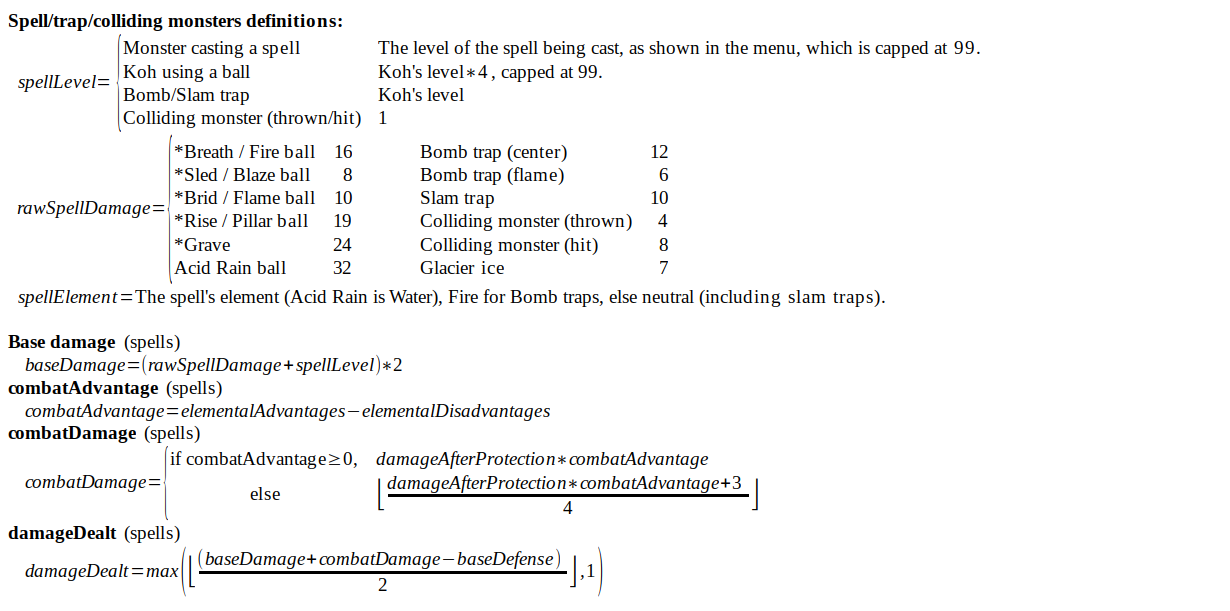
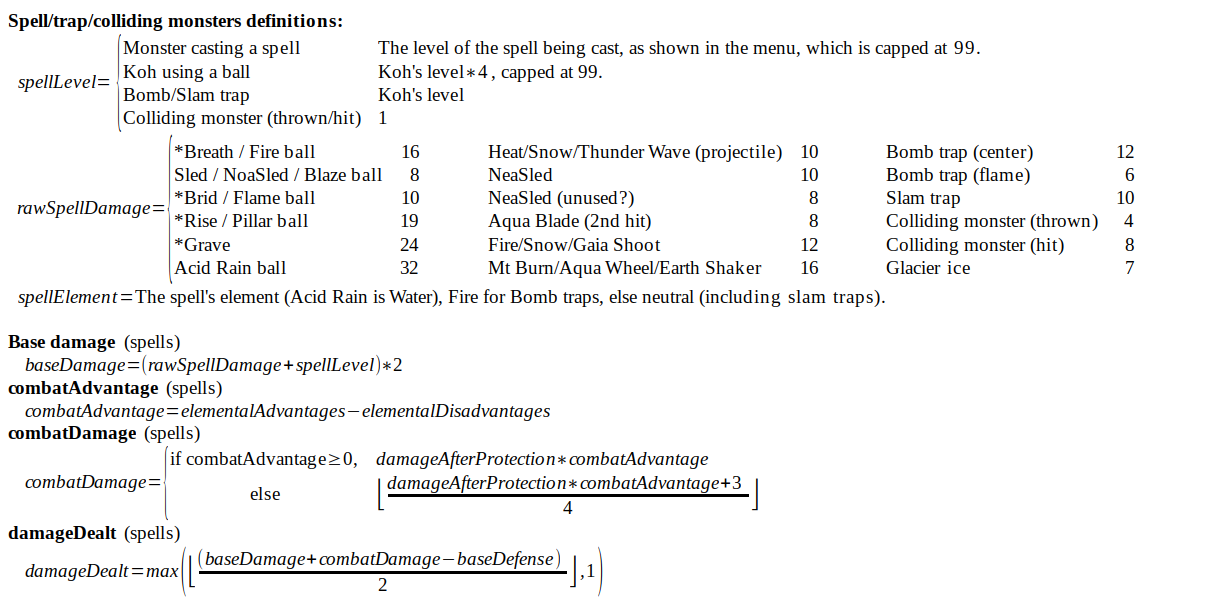
v3.7.0-preview1 Added custom spawns, improved animation swap, added mix magic to damage calculation.

diff --git a/customSpawns/index.js b/customSpawns/index.js
@@ -1,0 +1,190 @@
+(function(window) {
+
+  let constants;
+  let monsters;
+  let floors;
+
+  if (self) {
+    constants = self.adRando.constants;
+    monsters = self.adRando.monsters;
+    floors = self.adRando.floors;
+  } else {
+    constants = require('../constants');
+    monsters = require('../monsters');
+    floors = require('../guide/tables/floors');
+  }
+
+  const monsterSlotsPerFloor = 16;
+  const maxMonsterId = 0x2d;
+  const maxFloor = 39;
+
+  let copy;
+  
+  const elems = {};
+
+  let pageIsSetUp = false;
+
+
+  function getFloorSpawnsByNumber(floorArray, floorNumber) {
+    if (floorArray[floorNumber - 1] && floorArray[floorNumber - 1].floor == floorNumber) {
+      return floorArray[floorNumber - 1];
+    }
+    return floorArray.filter(floorEntry => floorEntry.floor == floorNumber)[0];
+  }
+
+  function tryParsingJson(data) {
+    try {
+      const floorSpawns = JSON.parse(data);
+      const floorContainers = document.getElementsByName('floor-container');
+      for (let i = 0; i < floorContainers.length; i++) {
+        setFloorNodeByObject(floorContainers[i], getFloorSpawnsByNumber(floorSpawns.monsters, i + 1));
+      }
+    } catch (error) {
+      logToOutput(error.message);
+    }
+  }
+
+  function importFileHandler(event) {
+    if (elems.importFile.files[0]) {
+      const reader = new FileReader();
+      reader.onload = function() {
+        tryParsingJson(this.result);
+      }
+      reader.readAsText(elems.importFile.files[0]);
+    }
+    event.preventDefault();
+    event.stopPropagation();
+  }
+
+  function exportFileHandler(event) {
+    const exportText = {'monsters':[]}
+    const floorContainers = document.getElementsByName('floor-container');
+    for (let i = 0; i < floorContainers.length; i++){
+      exportText.monsters[i] = getFloorNodeAsObject(floorContainers[i]);
+    }
+    const urlDownload = URL.createObjectURL(new Blob([JSON.stringify(exportText)], {
+      type: 'text/json; charset=UTF-8',
+    }));
+    const downloadFileElem = document.getElementById('download-file');
+    downloadFileElem.href = urlDownload;
+    downloadFileElem.download = 'customSpawns.json';
+    downloadFileElem.click();
+    URL.revokeObjectURL(urlDownload);
+    event.preventDefault();
+    event.stopPropagation();
+  }
+
+  async function logToOutput(message) {
+    elems.importOutput.value = message;
+    await new Promise(handler => setTimeout(handler, 5000));
+    elems.importOutput.value = '';
+  }
+
+  function getFloorNodeAsObject(floorNode) {
+    const floorNumber = floorNode.getElementsByClassName('floor-number')[0];
+    const result = {'floor': parseInt(floorNumber.innerText), 'spawns':[]};
+    const spawnNodes = floorNode.getElementsByTagName('fieldset');
+    for (let slot = 0; slot < spawnNodes.length; slot++) {
+      result['spawns'][slot]={'unitId': parseInt(spawnNodes[slot].getElementsByTagName('select')[0].value),
+                               'level': parseInt(spawnNodes[slot].getElementsByTagName('input')[0].value)};
+    }
+    return result;
+  }
+
+  function setFloorNodeByObject(floorNode, spawns) {
+    const spawnNodes = floorNode.getElementsByTagName('fieldset');
+    for (let slot = 0; slot < spawnNodes.length; slot++) {
+      spawnNodes[slot].getElementsByTagName('select')[0].value = spawns.spawns[slot].unitId & 0xff;
+      spawnNodes[slot].getElementsByTagName('input')[0].value = spawns.spawns[slot].level & 0xff;
+    }
+  }
+
+  function onPaste(event) {
+    //make paste button appear
+    setFloorNodeByObject(event.target.parentNode.parentNode, copy);
+    event.preventDefault();
+    event.stopPropagation();
+  }
+
+  function onCopy(event) {
+    //make paste button appear
+    if (!copy) {
+      let customStyles;
+      for (let i = 0; i < document.styleSheets.length; i++) {
+        if (document.styleSheets[i].href.endsWith("/index.css")) {
+          customStyles = document.styleSheets[i];
+          break;
+        }
+      }
+      for (let i = 0; i < customStyles.rules.length; i++) {
+        if (customStyles.rules[i].selectorText === 'div.hflow #paste') {
+          customStyles.deleteRule(i);
+          break;
+        }
+      }
+      customStyles.insertRule('div.hflow #paste { display: inherit;}');
+    }
+    copy = getFloorNodeAsObject(event.target.parentNode.parentNode);
+    event.preventDefault();
+    event.stopPropagation();
+  }
+
+  function setUpPage() {
+    const allFloorsNode = document.getElementById('spawns-area');
+    for (let floor = 1; floor <= maxFloor; floor++) {
+      const floorNode = document.getElementById('floor-template').content.cloneNode(true);
+      if (floor % 2 != 0) {
+        floorNode.getElementById("floor-container").classList.add("soft-bg");
+      }
+      floorNode.getElementById('copy').addEventListener('click', onCopy);
+      floorNode.getElementById('paste').addEventListener('click', onPaste);
+
+      floorNode.getElementById('floor-number').innerText = floor;
+
+      const floorTable = floors.enemyTable[floor];
+      for (let slot = 0; slot < monsterSlotsPerFloor; slot++) {
+        let floorTableEntry;
+        let slotUsage = 0;
+        for (tableIndex = 0; tableIndex < floorTable.length; tableIndex++) {
+          if (slot < slotUsage + floorTable[tableIndex].likelihood) {
+            floorTableEntry = floorTable[tableIndex];
+            break;
+          } else {
+            slotUsage += floorTable[tableIndex].likelihood;
+          }
+        }
+        const spawnNode = document.getElementById('spawn-template').content.cloneNode(true);
+        spawnNode.getElementById('monster-level').value = floorTableEntry.level;
+        const monsterNode = spawnNode.getElementById('monster-id');
+        const noneOption = document.createElement('option');
+        noneOption.value = 0;
+        noneOption.innerText = "None";
+        monsterNode.appendChild(noneOption);
+        monsters.allMonsters.forEach(function(monster) {
+          if (monster.ID > 0 && monster.ID <= maxMonsterId) {
+            const option = document.createElement('option');
+            option.value = monster.ID;
+            option.id = 'monster-' + monster.name;
+            option.innerText = monster.name;
+            monsterNode.appendChild(option);
+          }
+        })
+        monsterNode.value = floorTableEntry.unitId;
+        const floorSpawns = floorNode.getElementById('floor-spawns');
+        floorSpawns.appendChild(spawnNode);
+      }
+      allFloorsNode.appendChild(floorNode);
+    }
+    elems.importOutput = document.getElementById('import-output');
+    elems.importFile = document.getElementById('import-file');
+    elems.importFile.addEventListener('change', importFileHandler);
+    document.getElementById('export-file').addEventListener('click', exportFileHandler);
+    return true;
+  }
+
+  if (window) {
+    if (!pageIsSetUp) {
+      pageIsSetUp = setUpPage();
+    }
+  }
+})(typeof(window) !== 'undefined' ? window : null)

diff --git a/customSpawns/index.html b/customSpawns/index.html
@@ -1,0 +1,112 @@
+<!DOCTYPE html>
+<html>
+  <head>
+    <meta content="text/html;charset=utf-8" http-equiv="Content-Type">
+    <title>Azure Dreams PS1 (De-)Randomizer monster spawn editor</title>
+    <link rel="stylesheet"
+          href="https://unpkg.com/purecss@1.0.0/build/pure-min.css">
+    <link rel="stylesheet"
+          href="https://unpkg.com/purecss@1.0.0/build/grids-responsive-min.css">
+    <link rel="stylesheet" href="../index.css">
+    <link rel="icon" type="image/png" href="../favicon.png">
+  </head>
+  <body>
+    <script>
+      function changeLevel(target, delta) {
+        const spawnsNode = target.parentNode.parentNode.getElementsByTagName('input');
+        for (let i = 0; i < spawnsNode.length; i++) {
+          const levelNode = spawnsNode[i];
+          levelNode.value = Math.max(Math.min(parseInt(levelNode.value) + delta, parseInt(levelNode.max)), parseInt(levelNode.min));
+        }
+      }
+    </script>
+    <div style="padding-left: 5%; padding-right: 5%;">
+      <h1>Custom Monster Spawns</h1>
+      <div class="pure-u-12-24">
+        <a href="../">Back to randomizer</a>
+      </div>
+      <h2>About</h2>
+      <p>
+        This tool lets you select exactly which monsters will spawn on each floor. For each slot on each floor,
+        specify the monster and the level it should spawn at. Once you are finished, export your spawn file,
+        go to the randomizer home page and select the spawn file in the "Customizations" section when randomizing your game.
+      </p>
+      <h2>FAQ</h2>
+      <ul>
+        <li id="faq-slots">Why are there so many slots with the same monster?
+          <ul><li>That's how the game sets the relative spawn rates. The game randomly picks a slot and spawns that monster.</li></ul>
+        </li>
+        <li id="faq-types">How many different enemy monster types can appear on a floor?
+          <ul><li>Only four beyond your familiars. Once the game has spawned four enemy monster types within a floor, attempts to spawn
+          enemies of a fifth type will result in the monster not spawning. Variants within a type count as a single type.</li></ul>
+        </li>
+        <li id="faq-variants">What levels do the monster variants (e.g. dark Pulunpa) spawn at?
+          <ul class="hflow">
+            <li>Pulunpa
+              <ul>
+                <li>Normal: 1-9</li>
+                <li>Dark: 10+</li>
+              </ul>
+            </li>
+            <li>Troll
+              <ul>
+                <li>Hammer: 1-9</li>
+                <li>Bow gun: 10-12</li>
+                <li>Sword: 13+</li>
+              </ul>
+            </li>
+            <li>Manoeva
+              <ul>
+                <li>Doesn't transform: 1-9</li>
+                <li>Transforms into items: 10-19</li>
+                <li>Transforms into items and monsters: 20+</li>
+              </ul>
+            </li>
+          </ul>
+        </li>
+      </ul>
+      <div class="pure-u-1 space-down hflow">
+        <label for="import-file">Import file</label>
+        <input id="import-file" type="file" accept=".json"></input>
+        <button id="export-file">Export file</button>
+        <a id="download-file" style="display:none"></a>
+        <output id="import-output"></output>
+      </div>
+    </div>
+    <div class="hflow space-down">
+      <div id="spawns-area">
+        <template id="floor-template">
+          <div id="floor-container" name="floor-container" style="padding-top: 0.75em; padding-bottom: 0.75em;">
+            <div class="hflow">
+              <label for="floor-container" style="margin-left: 1em;" class="space-right">Floor</label>
+              <div id="floor-number" class="space-right floor-number"></div>
+              <button class="space-right" id="copy">Copy</button>
+              <button class="space-right" id="paste">Paste</button>
+              <button class="space-right" onclick="changeLevel(this, 1)">Level up</button>
+              <button class="space-right" onclick="changeLevel(this, -1)">Level down</button>
+            </div>
+            <div id="floor-spawns" class="hflow">
+
+            </div>
+          </div>
+        </template>
+        <template id="spawn-template">
+          <fieldset>
+            <div>
+              <label for="monster-id">Monster</label>
+              <select id="monster-id"></select>
+            </div>
+            <div>
+              <label for="monster-level">Level</label>
+              <input id="monster-level" type="number" min="1" max="98"></select>
+            </div>
+          </fieldset>
+        </template>
+      </div>
+    </div>
+    <script src="../constants.js"></script>
+    <script src="../monsters.js"></script>
+    <script src="../guide/tables/floors.js"></script>
+    <script src="index.js"></script>
+  </body>
+</html>

diff --git a/util.js b/util.js
@@ -777,8 +777,13 @@
       const lcg = new util.LCG(constants.lcgConstants.modulus, constants.lcgConstants.multiplier, constants.lcgConstants.increment, lcgSeed)
 
       const sortedUnitIdToNumberOfAnimations = unitIdToNumberOfAnimations.sort((a, b) => a.numAnimations - b.numAnimations)
+      let index = 0;
       sortedUnitIdToNumberOfAnimations.forEach(function(unitIdAndNumAnimations) {
-        const srcUnitIndex = lcg.rollBetween(unitIdAndNumAnimations.unitId - 1, 0x2c)
+        let lowerBound = index;
+        while (lowerBound > 0 && sortedUnitIdToNumberOfAnimations[lowerBound].numAnimations === sortedUnitIdToNumberOfAnimations[index].numAnimations) {
+          lowerBound--;
+        }
+        const srcUnitIndex = lcg.rollBetween(index++, 0x2c)
         const srcUnitId = sortedUnitIdToNumberOfAnimations[srcUnitIndex].unitId
         const destUnitId = unitIdAndNumAnimations.unitId
         if (srcUnitId != destUnitId) {

diff --git a/index.css b/index.css
@@ -233,4 +233,33 @@ select:disabled {
 
 .space-down {
     padding-top: 1em;
-  }
+}
+
+.space-right {
+    padding-right: 1em;
+}
+
+div.hflow button.space-right {
+    padding-right: 0.5em;
+    margin-right: 1em;
+    margin-bottom: 0.5em;
+}
+
+div.hflow #paste {
+    display: none;
+}
+
+.floor-number {
+    margin-left: -0.1em;
+    padding-right: 0.5em;
+}
+
+ul.hflow li {
+    margin-left: 2.5em;
+    padding-right: 1em;
+}
+
+ul.hflow li li {
+    margin-left: 0em;
+    padding-right: 1em;
+}
